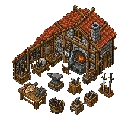
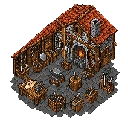
feat: new item hammer

diff --git a/apps/utils/src/constants/itemCraftCosts.ts b/apps/utils/src/constants/itemCraftCosts.ts
@@ -19,9 +19,20 @@ export const ITEM_CRAFT_COSTS: Record<
     { itemType: "stick", count: 2 },
     { itemType: "root", count: 4 },
   ],
+  leaf_rake: [
+    { itemType: "leaf_part", count: 5 },
+    { itemType: "brick", count: 1 },
+    { itemType: "wood", count: 1 },
+    { itemType: "root", count: 2 },
+  ],
   knife: [
     { itemType: "brick", count: 1 },
     { itemType: "wood", count: 1 },
+  ],
+  hammer: [
+    { itemType: "brick", count: 1 },
+    { itemType: "wood", count: 2 },
+    { itemType: "root", count: 2 },
   ],
   crucible: [
     { itemType: "wood", count: 1 },
@@ -32,26 +43,20 @@ export const ITEM_CRAFT_COSTS: Record<
     { itemType: "iron_ingot", count: 2 },
     { itemType: "wood", count: 1 },
   ],
+  wheelbarrel: [
+    { itemType: "wood", count: 2 },
+    { itemType: "iron_ingot", count: 2 },
+  ],
   desk: [
     { itemType: "furniture", count: 1 },
     { itemType: "iron_ingot", count: 1 },
     { itemType: "paper", count: 3 },
   ],
-  fountain: [{ itemType: "sculpture", count: 2 }],
-  leaf_rake: [
-    { itemType: "leaf_part", count: 5 },
-    { itemType: "brick", count: 1 },
-    { itemType: "wood", count: 1 },
-    { itemType: "root", count: 2 },
-  ],
-  wheelbarrel: [
-    { itemType: "wood", count: 2 },
-    { itemType: "iron_ingot", count: 2 },
-  ],
   basket: [
     { itemType: "iron_ingot", count: 2 },
     { itemType: "steel", count: 1 },
   ],
+  fountain: [{ itemType: "sculpture", count: 2 }],
   shovel: [
     { itemType: "little_rock", count: 2 },
     { itemType: "stick", count: 1 },

diff --git a/apps/backend/src/routes/structures.ts b/apps/backend/src/routes/structures.ts
@@ -25,6 +25,7 @@ import { economyRateLimit } from "../middleware/rateLimits.js";
 import { requireGameAccess } from "../middleware/requireGameAccess.js";
 import { requireStructure } from "../middleware/requireOwnedEntity.js";
 import { getBug, getBugsByIds, updateBug as updateBugService } from "../services/bugsService.js";
+import { getItemsOnGrid } from "../services/itemsService.js";
 import {
   craftOperationalBugAtStructure,
   craftOperationalItemAtStructure,
@@ -130,7 +131,8 @@ const updateStructure: RequestHandler<{ id: string }> = async (req, res) => {
   const data: UpdateStructureData = {};
 
   if (hasPositionUpdate) {
-    if (!canRelocateStructureType(existingStructure.structureType)) {
+    const itemsOnGrid = await getItemsOnGrid(authorId);
+    if (!canRelocateStructureType(existingStructure.structureType, itemsOnGrid)) {
       res.status(400).json({ error: "This structure cannot be moved" });
       return;
     }

diff --git a/apps/frontend/src/components/ground-grid/GroundGridInteractionLayer.tsx b/apps/frontend/src/components/ground-grid/GroundGridInteractionLayer.tsx
@@ -383,7 +383,7 @@ export function GroundGridInteractionLayer({
               ],
             );
 
-            if (fits && canRelocateStructureType(structureToDrop.structureType)) {
+            if (fits && canRelocateStructureType(structureToDrop.structureType, items)) {
               onItemDropped(structureToDrop.id, target);
             } else {
               onItemDropCancelled(structureToDrop.id, target);
@@ -492,7 +492,7 @@ export function GroundGridInteractionLayer({
           }
 
           const canDrag =
-            (!!structure && canRelocateStructureType(structure.structureType)) ||
+            (!!structure && canRelocateStructureType(structure.structureType, items)) ||
             !!stack ||
             !!item ||
             positionOverlapsAnyEntity({ x: gridCol, y: gridRow }, bugs);

diff --git a/apps/utils/src/structures/relocation.ts b/apps/utils/src/structures/relocation.ts
@@ -1,6 +1,15 @@
+import { ItemForCraft } from "../items/craft.js";
+import { hasCraftedItem } from "../items/stacking.js";
 import { StructureType } from "../types/structureType.js";
 import { isGroundEvolutionStructureType } from "./evolution.js";
 
-export function canRelocateStructureType(structureType: StructureType): boolean {
-  return !isGroundEvolutionStructureType(structureType);
+export function canRelocateStructureType(
+  structureType: StructureType,
+  items: ItemForCraft[],
+): boolean {
+  if (isGroundEvolutionStructureType(structureType)) {
+    return false;
+  }
+
+  return hasCraftedItem(items, "hammer");
 }

diff --git a/apps/frontend/src/components/helpers/itemTypeToImage.ts b/apps/frontend/src/components/helpers/itemTypeToImage.ts
@@ -16,6 +16,8 @@ export function itemTypeToImageForItem(itemType: ItemType): string {
       return "/items/wood.webp";
     case "axe":
       return "/items/axe.webp";
+    case "hammer":
+      return "/items/hammer.webp";
     case "hammer_and_chisel":
       return "/items/hammer-and-chisel.webp";
     case "leaf_rake":

diff --git a/apps/utils/src/items/span.ts b/apps/utils/src/items/span.ts
@@ -6,7 +6,8 @@ export function getItemSpan(itemType: ItemType): number {
     itemType === "leaf_rake" ||
     itemType === "shovel" ||
     itemType === "wheelbarrel" ||
-    itemType === "basket"
+    itemType === "basket" ||
+    itemType === "hammer"
   ) {
     return 2;
   }

diff --git a/apps/frontend/src/components/helpers/getItemName.ts b/apps/frontend/src/components/helpers/getItemName.ts
@@ -4,6 +4,8 @@ export function itemTypeToName(itemType: WorkshopItemType): string {
   switch (itemType) {
     case "axe":
       return "Axe";
+    case "hammer":
+      return "Hammer";
     case "hammer_and_chisel":
       return "Hammer and chisel";
     case "leaf_rake":

diff --git a/apps/utils/src/items/availability.ts b/apps/utils/src/items/availability.ts
@@ -6,6 +6,7 @@ const UNIQUE_CRAFTABLE_ITEM_TYPES = new Set<WorkshopItemType>([
   "shovel",
   "wheelbarrel",
   "basket",
+  "hammer",
 ]);
 
 const WORKSHOP_ITEM_REQUIRED_UPGRADE_LEVEL: Partial<Record<WorkshopItemType, number>> = {

diff --git a/apps/utils/src/typeGuards/item.ts b/apps/utils/src/typeGuards/item.ts
@@ -8,6 +8,7 @@ const ITEM_TYPE_BY_KEY: Record<ItemType, true> = {
   brick: true,
   wood: true,
   axe: true,
+  hammer: true,
   hammer_and_chisel: true,
   leaf_rake: true,
   shovel: true,

diff --git a/apps/utils/src/types/itemType.ts b/apps/utils/src/types/itemType.ts
@@ -1,5 +1,6 @@
 export type WorkshopItemType =
   | "axe"
+  | "hammer"
   | "hammer_and_chisel"
   | "leaf_rake"
   | "shovel"
